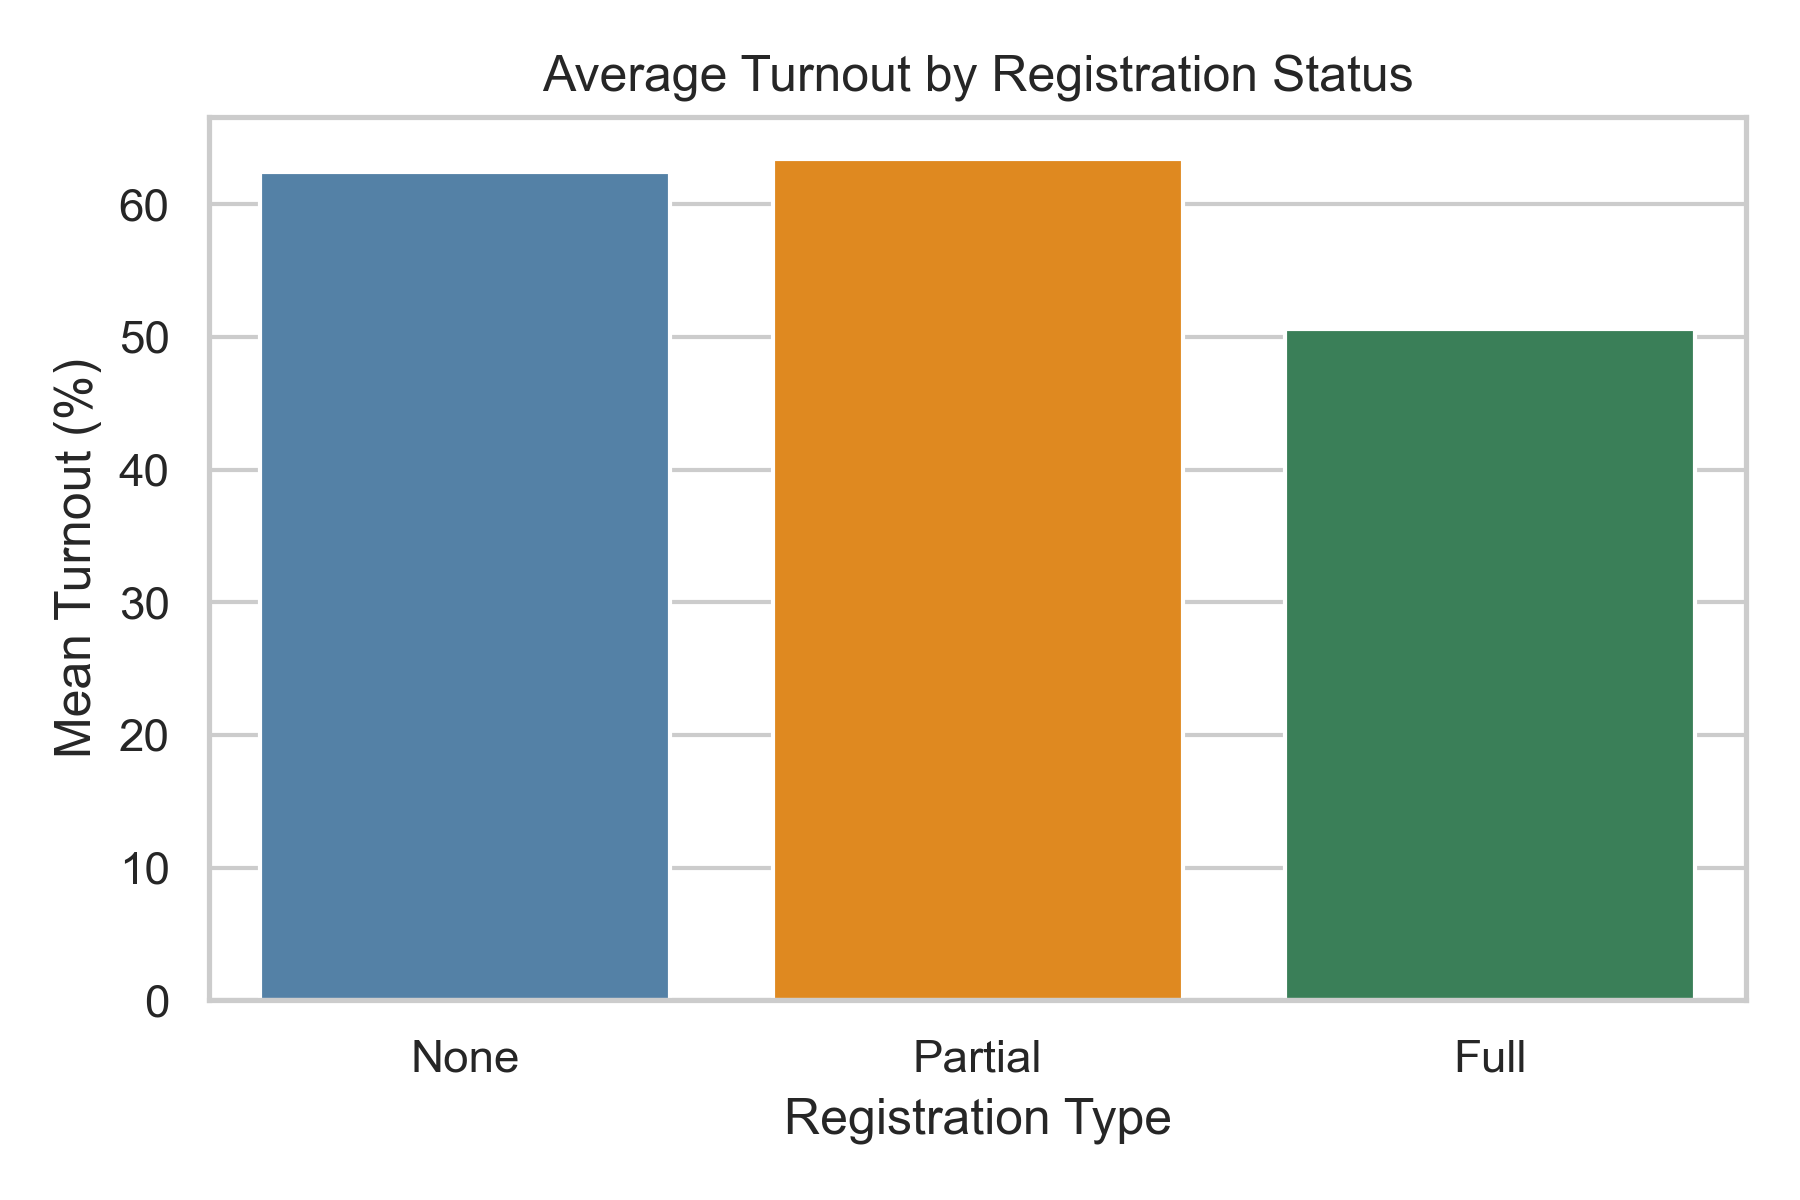
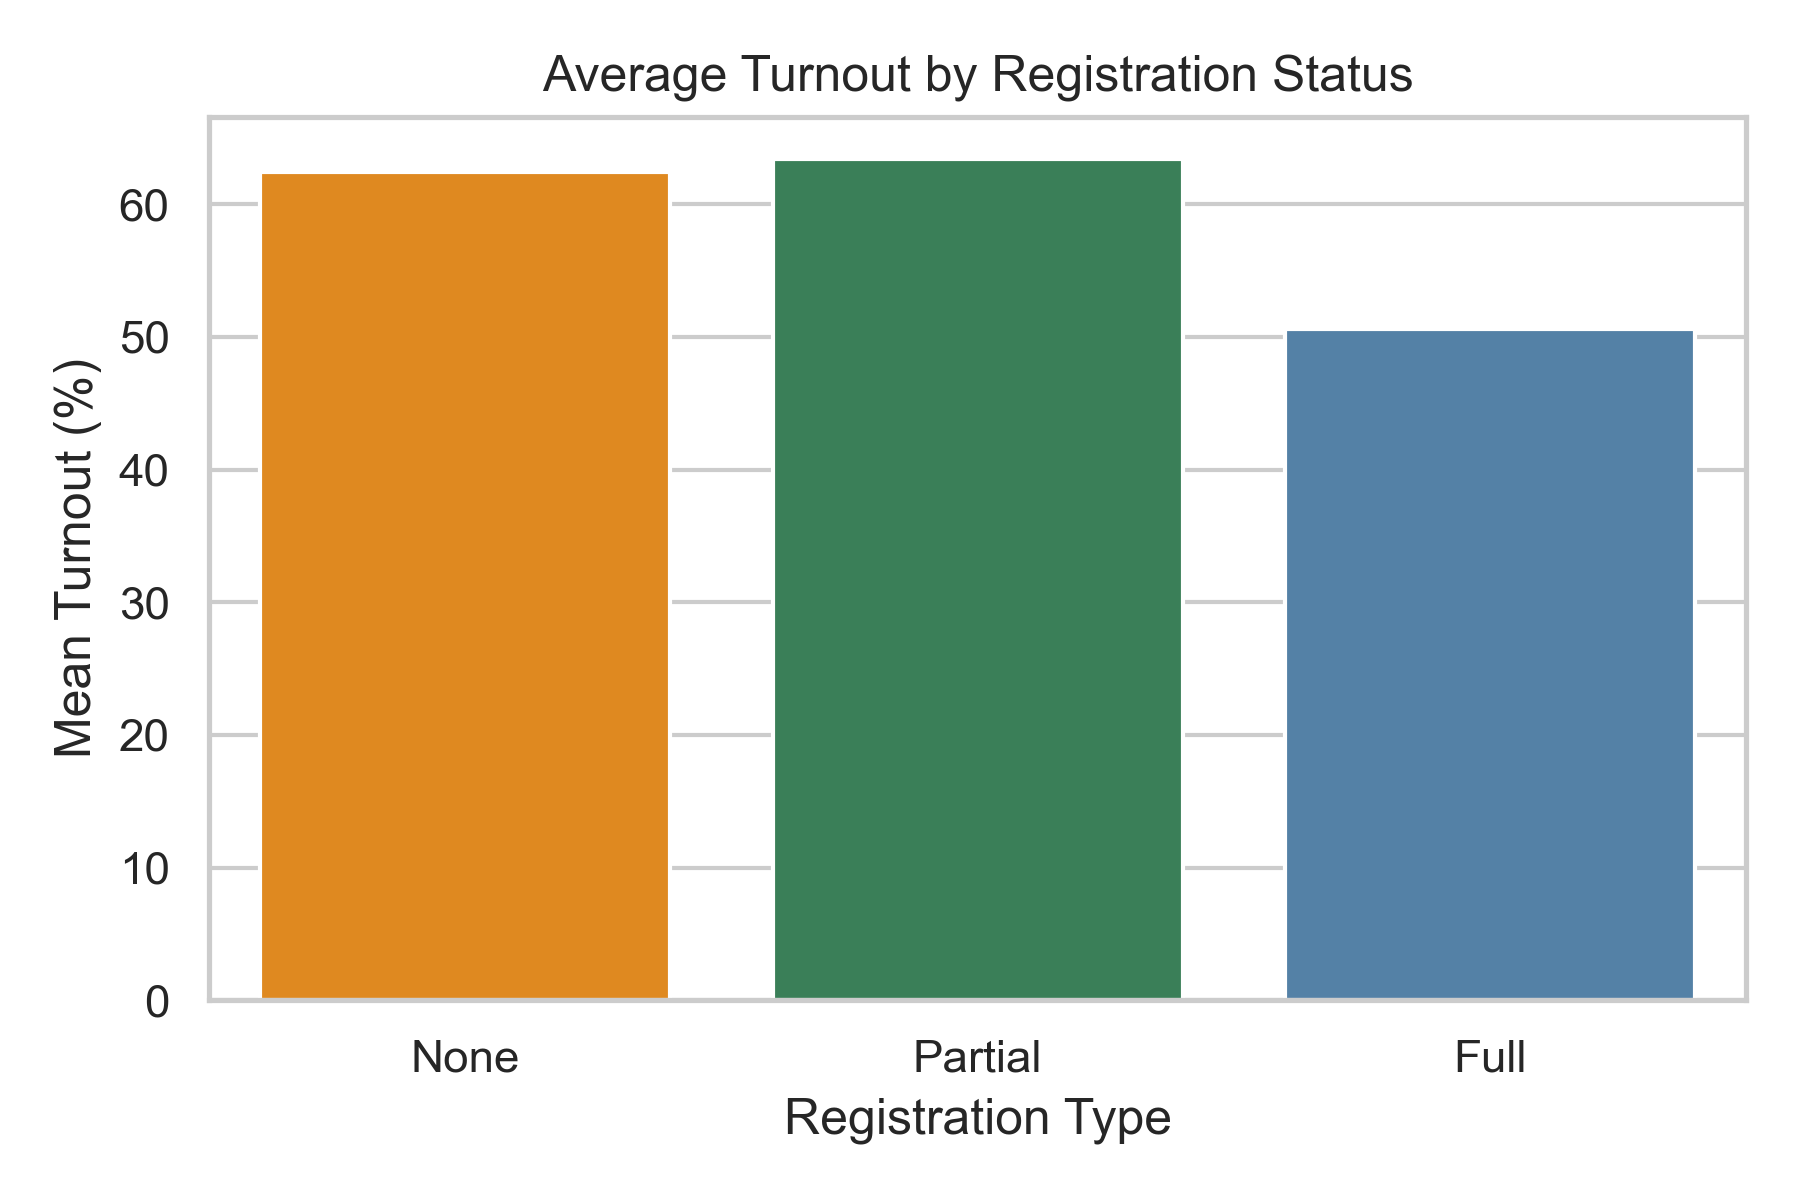
a

diff --git a/problemset2.py b/problemset2.py
@@ -26,40 +26,30 @@ missing = df.isnull().mean().sort_values(ascending=False)
 
 # Codebook function 
 def codebook(df):
-    # printing the title
     print("/nCodebook Summary/n")
     
-    # Loop through every column in dataset
     for col in df.columns:
         print("\n")
         print(f"Variable: {col}")
         print("\n")
 
-        # Basic info
-        print(f"Type: {df[col].dtype}") # data type
-        print(f"Observations: {len(df)}") # total number of rows
+        print(f"Type: {df[col].dtype}")
+        print(f"Observations: {len(df)}")
         print(f"Missing: {df[col].isna().sum()} ({df[col].isna().mean():.2%})")
-        print(f"Unique values: {df[col].nunique()}") # number of distinct values
+        print(f"Unique values: {df[col].nunique()}")
 
-        # Numeric variables summary
         if pd.api.types.is_numeric_dtype(df[col]):
             print("\nSummary statistics:")
-            # percentiles included for distribution shape
             desc = df[col].describe(percentiles=[.1, .25, .5, .75, .9])
             print(desc)
-
-        # Categorical variables summary
         else:
             print("\nTop categories:")
-            # ferquency table (top 10 most common values)
             print(df[col].value_counts().head(10))
 
-# Call the function to see details of codebook - saved as a comment to avoid long output
 # codebook(df) 
 
-# Descriptive Statistics
 
-# Selects key variables for my main summary table
+# Descriptive Statistics
 vars_table1 = [
     "turnout_pct",
     "log_pop",
@@ -69,13 +59,9 @@ vars_table1 = [
     "per_urban"
 ]
 
-# Create summary statistics (count, mean, std, min, max,...)
 table1 = df[vars_table1].describe().T
-
-# Keep only relevant columns for reporting
 table1 = table1[["count", "mean", "std", "min", "max"]]
 
-# Rename columns for clarity in report
 table1 = table1.rename(columns={
     "count": "N",
     "mean": "Mean",
@@ -84,7 +70,6 @@ table1 = table1.rename(columns={
     "max": "Max"
 })
 
-# Rename rows for readability
 table1.index = [
     "Turnout (%)",
     "Log Population",
@@ -93,11 +78,9 @@ table1.index = [
     "African American (%)",
     "Urban (%)"
 ]
-
-# Round values
+ 
 table1 = table1.round(2)
 
-# Printing the final table
 print("\nTable 1: Descriptive Statistics")
 print(table1)
 
@@ -105,50 +88,28 @@ print(table1)
 # Plotting
 
 
-plt.figure(figsize=(8,4))
-missing[missing > 0].plot(kind='bar')
-plt.title("Share of Missing Values by Variable")
-plt.ylabel("Proportion Missing")
-plt.tight_layout()
-
-plt.savefig("outputs/missing.png", dpi=300)
-plt.show()
-plt.close()
-
-# Key variables
-key_vars = [
-    "turnout_pct", "population", "medfaminc", "per_HSeducation",
-    "per_AfricanAmerican", "per_urban", "median_age", "log_inc"
-]
-
-
 # Distribution Plots
 fig, axes = plt.subplots(2, 2, figsize=(12, 8))
 
-# Turnout Distribution
 sns.histplot(df["turnout_pct"], kde=True, ax=axes[0,0], color="steelblue")
 axes[0,0].set_title("Turnout Distribution (%)")
 
-# Population Distribution
 sns.histplot(df["population"], kde=True, ax=axes[0,1], color="steelblue")
-axes[0,1].set_title("Population (Skewed)")
+axes[0,1].set_title("Population")
 
-# Income Distribution
 sns.histplot(df["medfaminc"], kde=True, ax=axes[1,0], color="steelblue")
 axes[1,0].set_title("Median Family Income")
 
-# Education distribution
 sns.histplot(df["per_HSeducation"], kde=True, ax=axes[1,1], color="steelblue")
 axes[1,1].set_title("HS Education Share")
 
 plt.tight_layout()
-
 plt.savefig("outputs/distributions.png", dpi=300)
 plt.show()
 plt.close()
- 
+
+
 # Registration
-# Recode registration variable for plotting
 df["registration_label"] = df["registration"].map({
     0: "None",
     1: "Full",
@@ -162,9 +123,11 @@ reg_means = df.groupby("registration_label")["turnout_pct"].mean().reset_index()
 sns.barplot(
     x="registration_label",
     y="turnout_pct",
+    hue="registration_label",
     data=reg_means,
-    order=["None", "Partial", "Full"],  # optional: control order
-    palette=["steelblue", "darkorange", "seagreen"]
+    order=["None", "Partial", "Full"],
+    palette=["steelblue", "darkorange", "seagreen"],
+    legend=False
 )
 
 plt.title("Average Turnout by Registration Status")
@@ -176,8 +139,8 @@ plt.savefig("outputs/turnout_by_registration_bar.png", dpi=300)
 plt.show()
 plt.close()
 
+
 # Presidential Year
-# Recode presidential year variable for plotting
 df["presyear_label"] = df["presyear"].map({
     0: "Non-Presidential Year",
     1: "Presidential Year"
@@ -190,9 +153,11 @@ pres_means = df.groupby("presyear_label")["turnout_pct"].mean().reset_index()
 sns.barplot(
     x="presyear_label",
     y="turnout_pct",
+    hue="presyear_label",
     data=pres_means,
     order=["Non-Presidential Year", "Presidential Year"],
-    palette=["steelblue", "darkorange"]
+    palette=["steelblue", "darkorange"],
+    legend=False
 )
 
 plt.title("Average Turnout: Presidential vs Non-Presidential Years")
@@ -203,9 +168,9 @@ plt.tight_layout()
 plt.savefig("outputs/turnout_by_presyear_bar.png", dpi=300)
 plt.show()
 plt.close()
-   
+
+
 # Law Change
-# Recode law change variable for plotting
 df["lawchange_label"] = df["lawchange"].map({
     0: "Otherwise",
     1: "First Year After Law Change"
@@ -218,9 +183,11 @@ law_means = df.groupby("lawchange_label")["turnout_pct"].mean().reset_index()
 sns.barplot(
     x="lawchange_label",
     y="turnout_pct",
+    hue="lawchange_label",
     data=law_means,
     order=["Otherwise", "First Year After Law Change"],
-    palette=["steelblue", "darkorange"]
+    palette=["steelblue", "darkorange"],
+    legend=False
 )
 
 plt.title("Average Turnout Around Law Changes")
@@ -231,17 +198,28 @@ plt.tight_layout()
 plt.savefig("outputs/turnout_by_lawchange_bar.png", dpi=300)
 plt.show()
 plt.close()
- 
- 
-# Income vs Education
-plt.figure(figsize=(6,4))
- 
-sns.scatterplot(x="log_inc", y="per_HSeducation", data=df, alpha=0.4, color="steelblue")
 
-plt.title("Income vs Education")
+
+# Income and Turnout
+plt.figure(figsize=(6,4))
+sns.scatterplot(x="log_inc", y="turnout", data=df, alpha=0.4, color="steelblue")
+
+plt.title("Income vs Turnout")
 plt.tight_layout()
 
-plt.savefig("outputs/income_vs_education.png", dpi=300)
+plt.savefig("outputs/income_vs_turnout.png", dpi=300)
+plt.show()
+plt.close()
+
+
+# Education and Turnout
+plt.figure(figsize=(6,4))
+sns.scatterplot(x="per_HSeducation", y="turnout", data=df, alpha=0.4, color="darkorange")
+
+plt.title("Education vs Turnout")
+plt.tight_layout()
+
+plt.savefig("outputs/education_vs_turnout.png", dpi=300)
 plt.show()
 plt.close()
 
@@ -251,7 +229,14 @@ plt.figure(figsize=(6,4))
 
 state_means = df.groupby("state")["turnout_pct"].mean().reset_index()
 
-sns.barplot(x="state", y="turnout_pct", data=state_means, palette=["steelblue", "darkorange"])
+sns.barplot(
+    x="state",
+    y="turnout_pct",
+    hue="state",
+    data=state_means,
+    palette=["steelblue", "darkorange"],
+    legend=False
+)
 
 plt.title("Average Turnout by State")
 plt.ylabel("Mean Turnout (%)")
@@ -261,16 +246,14 @@ plt.savefig("outputs/state_turnout.png", dpi=300)
 plt.show()
 plt.close()
 
-# Convert turnout to percent 
-df["turnout_pct"] = df["turnout"] * 100
 
-# Exclude registration == 5
+# T-test (Law Change Effect)
+
 df_clean = df[df["registration"] != 5].copy()
 
 before = df_clean[df_clean["lawchange"] == 0]["turnout_pct"]
 after  = df_clean[df_clean["lawchange"] == 1]["turnout_pct"]
 
-# Two-sample t-test (Welch's t-test by default unequal variances)
 t_stat, p_value = stats.ttest_ind(after, before, equal_var=False)
 
 print("\nT-test results (Law Change Effect)\n")
